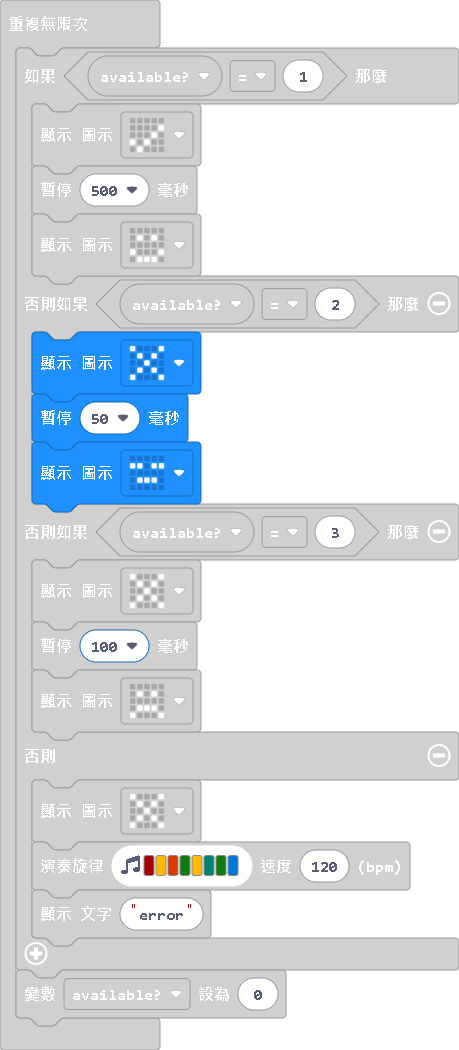
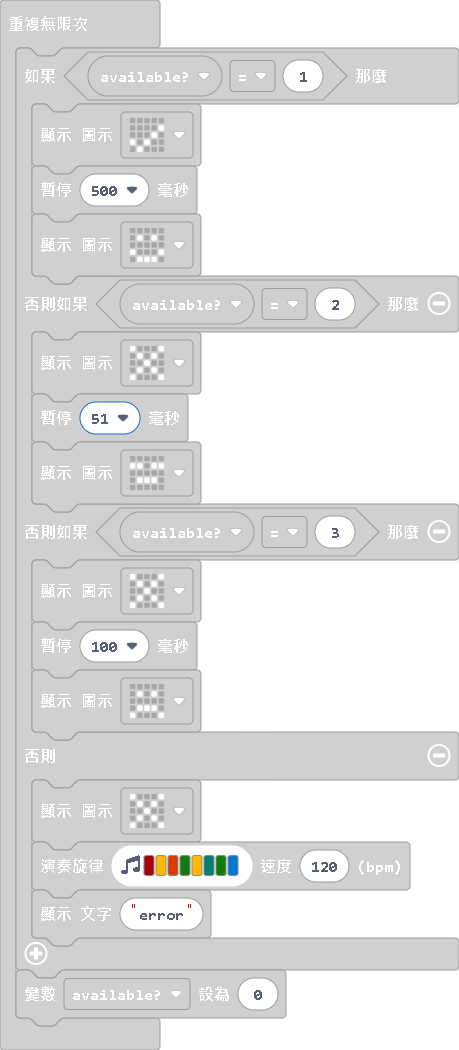
更新 main.blocks, main.ts

Changed region(s): [[0.061, 0.3048, 0.4575, 0.4876]]

diff --git a/main.ts b/main.ts
@@ -12,7 +12,7 @@ basic.forever(function () {
         basic.showIcon(IconNames.Happy)
     } else if (available == 2) {
         basic.showIcon(IconNames.No)
-        basic.pause(50)
+        basic.pause(51)
         basic.showIcon(IconNames.Asleep)
     } else if (available == 3) {
         basic.showIcon(IconNames.No)
